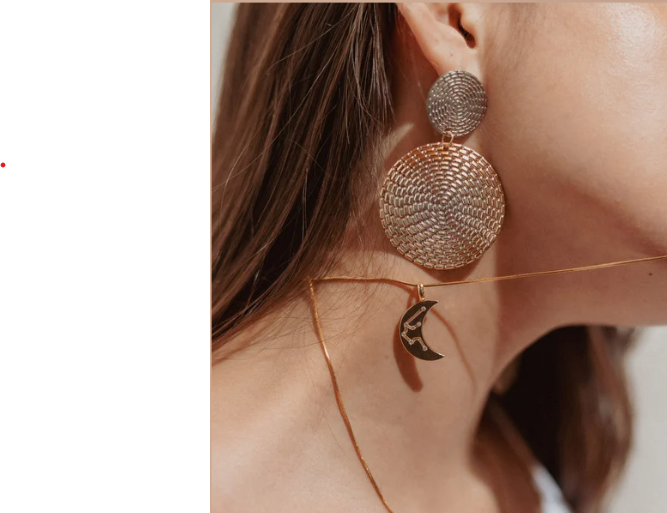
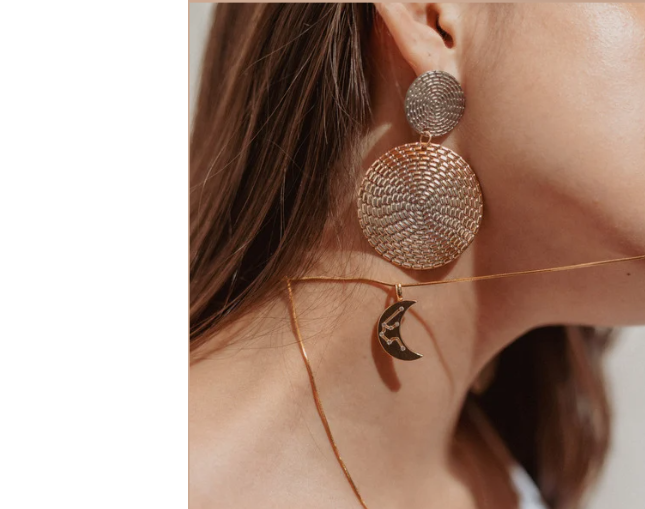
Our Story Page

diff --git a/Aura-Club/src/pages/OurStory.jsx b/Aura-Club/src/pages/OurStory.jsx
@@ -1,0 +1,85 @@
+import React from "react";
+import jewelryImage from "../assets/image1.png"; // First section image
+import logo from "../assets/logo.png";          // Logo image
+import aboutImage from "../assets/image1.png";  // About Us image
+import Footer from "../layout/Footer";
+import Navbar from "../layout/Navbar";
+
+const OurStory = () => {
+  return (
+    <>
+      <Navbar />
+      
+      <div className="w-full">
+        {/* -------------------- OUR STORY Section -------------------- */}
+        <section className="w-full min-h-screen bg-[#d6a98c] flex flex-col md:flex-row items-center justify-between px-6 md:px-20 py-12 font-serif">
+          <div className="md:w-1/2 w-full flex flex-col items-start justify-center space-y-6 text-black">
+            <div className="mb-4">
+              <img src={logo} alt="Auraa Club Logo" className="w-24 h-24" />
+              <h1 className="text-2xl font-semibold tracking-widest mt-4">THE AURAA CLUB</h1>
+            </div>
+
+            <h2 className="text-4xl md:text-5xl font-bold leading-snug font-serif italic">
+              A fusion of<br />
+              your aura &<br />
+              your style
+            </h2>
+
+            <p className="text-md font-medium">
+              Celebrate with ease – tangle-free,<br />
+              damage-free, worry-free.
+            </p>
+          </div>
+
+          <div className="md:w-1/2 w-full mt-10 md:mt-0 flex items-center justify-center">
+            <img
+              src={jewelryImage}
+              alt="Jewelry display"
+              className="w-full max-w-md rounded-md shadow-xl"
+            />
+          </div>
+        </section>
+
+        {/* -------------------- ABOUT US Section -------------------- */}
+        <section className="w-full min-h-screen bg-white px-6 md:px-20 py-16 font-sans text-[#333]">
+          <div className="flex flex-col md:flex-row items-start justify-between gap-10">
+            <div className="md:w-1/2 w-full">
+              <h2 className="text-4xl font-semibold mb-6">About Us</h2>
+              <img
+                src={aboutImage}
+                alt="About Jewelry"
+                className="rounded-md shadow-lg w-full max-w-md"
+              />
+            </div>
+
+            <div className="md:w-1/2 w-full text-justify text-[16px] leading-relaxed">
+  <p className="mb-4">
+    <span className="font-medium text-lg">Welcome to The Auraa Club! ✨</span> We're so thrilled you're here.
+  </p>
+  <p className="mb-4">
+    At The Auraa Club, we believe your jewelry should be as unique and sparkling as you are!
+    We know how important it is to find those perfect pieces that truly match your style and make you feel absolutely radiant.
+    That's why we meticulously curate a collection of jewellery that not only adorns you but also genuinely reflects your personality
+    and enhances your inner glow. We believe every piece you wear should be a little whisper of who you are,
+    a tiny spark that boosts your confidence and lets your true self shine through.
+  </p>
+  <p className="mb-4">
+    We started The Auraa Club because we wanted to create a space where everyone could discover jewelry that feels like it was made just for them.
+    Forget one-size-fits-all – we're all about celebrating individuality and helping you find the pieces that resonate with your one-of-a-kind aura.
+    Our dream is to make finding your perfect match an exciting and joyful adventure!
+  </p>
+  <p>
+    So go ahead, explore our collections, and let's find the jewelry that tells your beautiful story!
+  </p>
+</div>
+
+          </div>
+        </section>
+        
+        <Footer />
+      </div>
+    </>
+  );
+};
+
+export default OurStory;

diff --git a/Aura-Club/src/components/Hero.jsx b/Aura-Club/src/components/Hero.jsx
@@ -5,16 +5,16 @@ export default function Hero() {
   return (
     <section className="w-full min-h-screen bg-[#cfae97] flex flex-col md:flex-row items-center justify-between">
       {/* Left - Image */}
-      <div className="md:w-1/2 w-full flex items-center justify-center">
-        <img
-          src={heroImg}
-          alt="Jewelry Hero"
-          className="w-[650px] h-[500px] object-cover rounded animate-breathe"
-        />
-      </div>
+      <div className="md:w-1/2 w-full flex items-start justify-start -mt-10 pr-16">
+    <img
+      src={heroImg}
+      alt="Jewelry Hero"
+      className="w-[700px] h-[550px] object-cover rounded animate-breathe"
+    />
+  </div>
       {/* Right - Text */}
       <div className="md:w-1/2 w-full flex items-center justify-center p-6">
-        <div className="text-[#5c3a2d] text-center flex flex-col items-center justify-center">
+        <div className="text-[#5c3a2d] text-center flex flex-col items-center justify-center -mt-20">
           <img
             src={logo}
             alt="Auraa Club Logo"

diff --git a/Aura-Club/src/layout/Navbar.jsx b/Aura-Club/src/layout/Navbar.jsx
@@ -1,7 +1,14 @@
 // components/Navbar.jsx
 import React from "react";
+import { Link } from "react-router-dom";
 
-const navItems = ["Home", "Shop", "Our Story", "Get in Touch", "Gift Hampers"];
+const navItems = [
+  { name: "Home", path: "/" },
+  { name: "Shop", path: "#" },
+  { name: "Our Story", path: "/OurStory" },
+  { name: "Get in Touch", path: "#" },
+  { name: "Gift Hampers", path: "#" },
+];
 
 const Navbar = () => {
   return (
@@ -13,7 +20,11 @@ const Navbar = () => {
               key={index}
               className="transition transform duration-300 ease-in-out hover:scale-110 hover:text-[#8b5e3c] cursor-pointer"
             >
-              {item}
+              {item.path.startsWith("/") ? (
+                <Link to={item.path}>{item.name}</Link>
+              ) : (
+                <span>{item.name}</span>
+              )}
             </li>
           ))}
         </ul>

diff --git a/Aura-Club/src/pages/Home.jsx b/Aura-Club/src/pages/Home.jsx
@@ -1,6 +1,6 @@
 import Navbar from "../layout/Navbar";
 import Hero from "../components/Hero";
-import AboutSection from "../components/AboutSection";
+import IntroSection from "../components/IntroSection";
 import Footer from "../layout/Footer";
 
 export default function Home() {
@@ -8,7 +8,7 @@ export default function Home() {
     <div className="w-full bg-[#cfae97]">
       <Navbar />
       <Hero />
-      <AboutSection />
+      <IntroSection />
       <Footer/>
     </div>
   );

diff --git a/Aura-Club/src/App.jsx b/Aura-Club/src/App.jsx
@@ -1,11 +1,13 @@
 import { BrowserRouter as Router, Routes, Route } from 'react-router-dom'
 import Home from './pages/Home'
+import OurStory from './pages/OurStory'
 
 function App() {
    return (
     <Router>
       <Routes>
         <Route path="/" element={<Home />} />
+        <Route path="/OurStory" element={<OurStory />} />
         
       </Routes>
     </Router>
